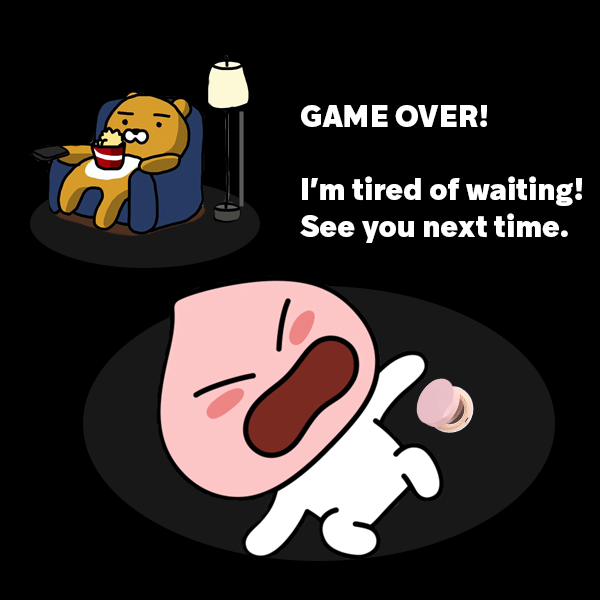
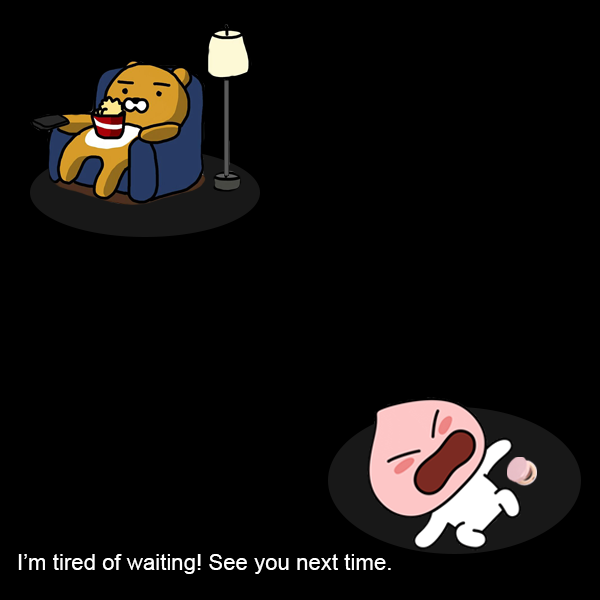
P1: Changed the Losing Background Image to make the game look nicer.

diff --git a/projects/project_1/js/script.js b/projects/project_1/js/script.js
@@ -383,11 +383,13 @@ function showGameOver() {
   // Set up the font
   textSize(32);
   textAlign(CENTER, CENTER);
-  fill(0);
+  fill(255);
+  //background lost
+  image(loseBg, 0, 0, width, height);
   // Set up the text to display
   let gameOverText = "GAME OVER\n"; // \n means "new line"
-  gameOverText = gameOverText + "You ate " + preyEaten + " prey\n";
-  gameOverText = gameOverText + "before you died."
+  gameOverText = gameOverText + "You caught " + preyEaten + " items\n";
+  gameOverText = gameOverText + "before your date was cancelled."
   // Display it in the centre of the screen
   text(gameOverText, width / 2, height / 2);
 }
